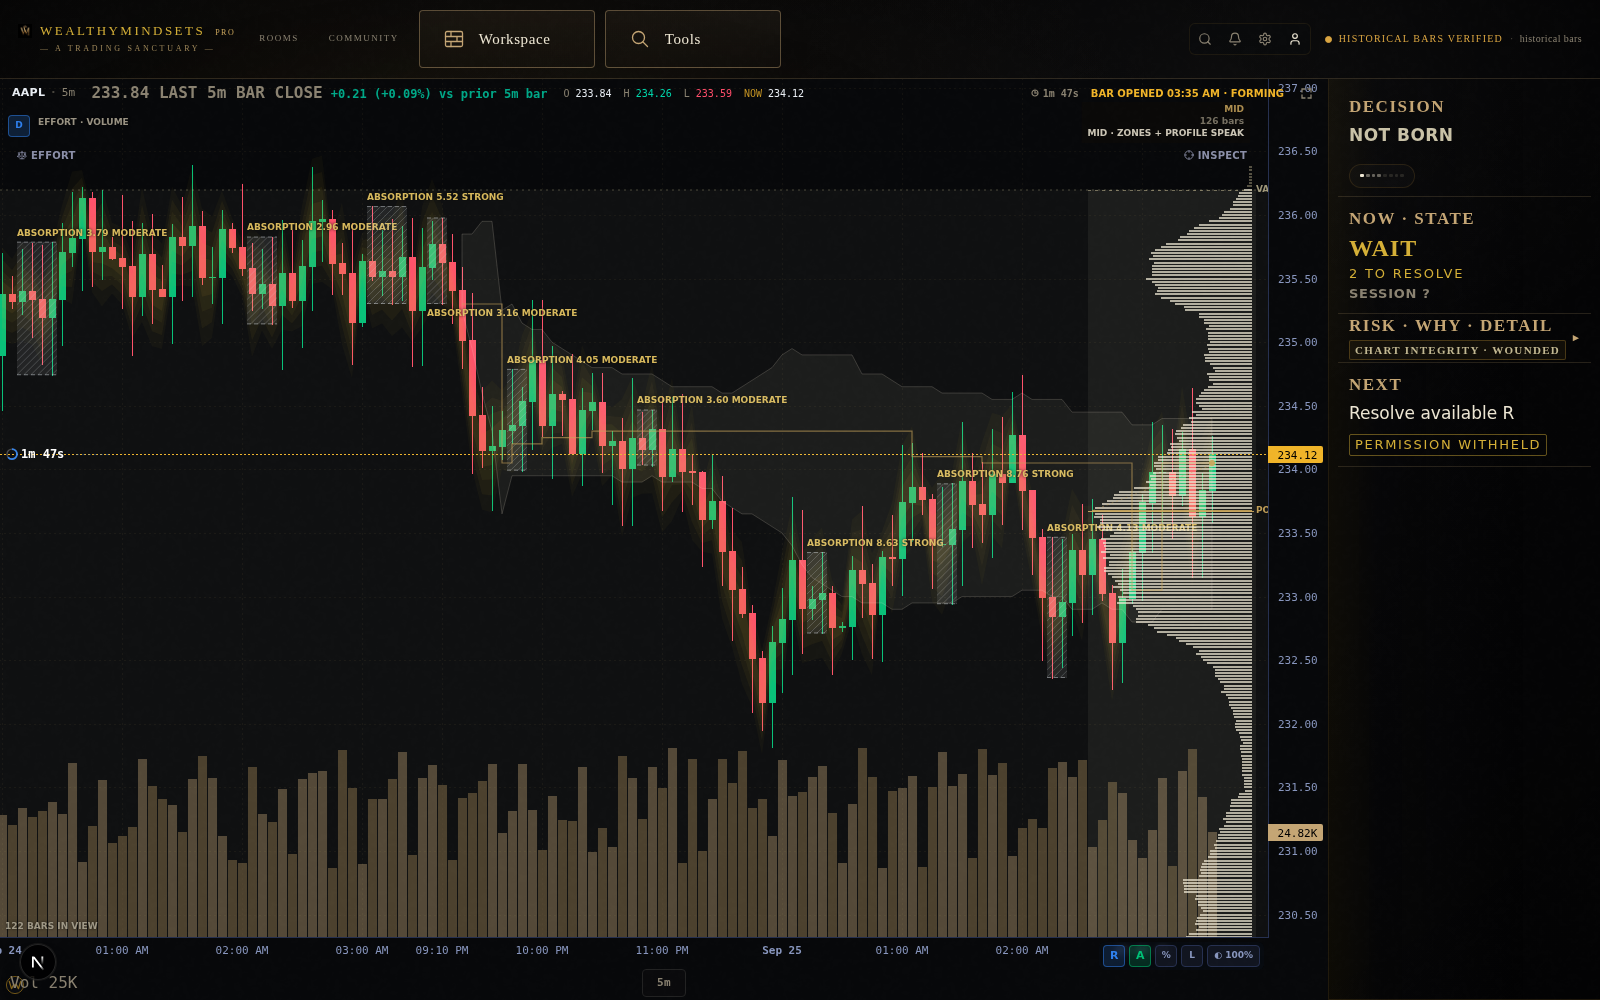
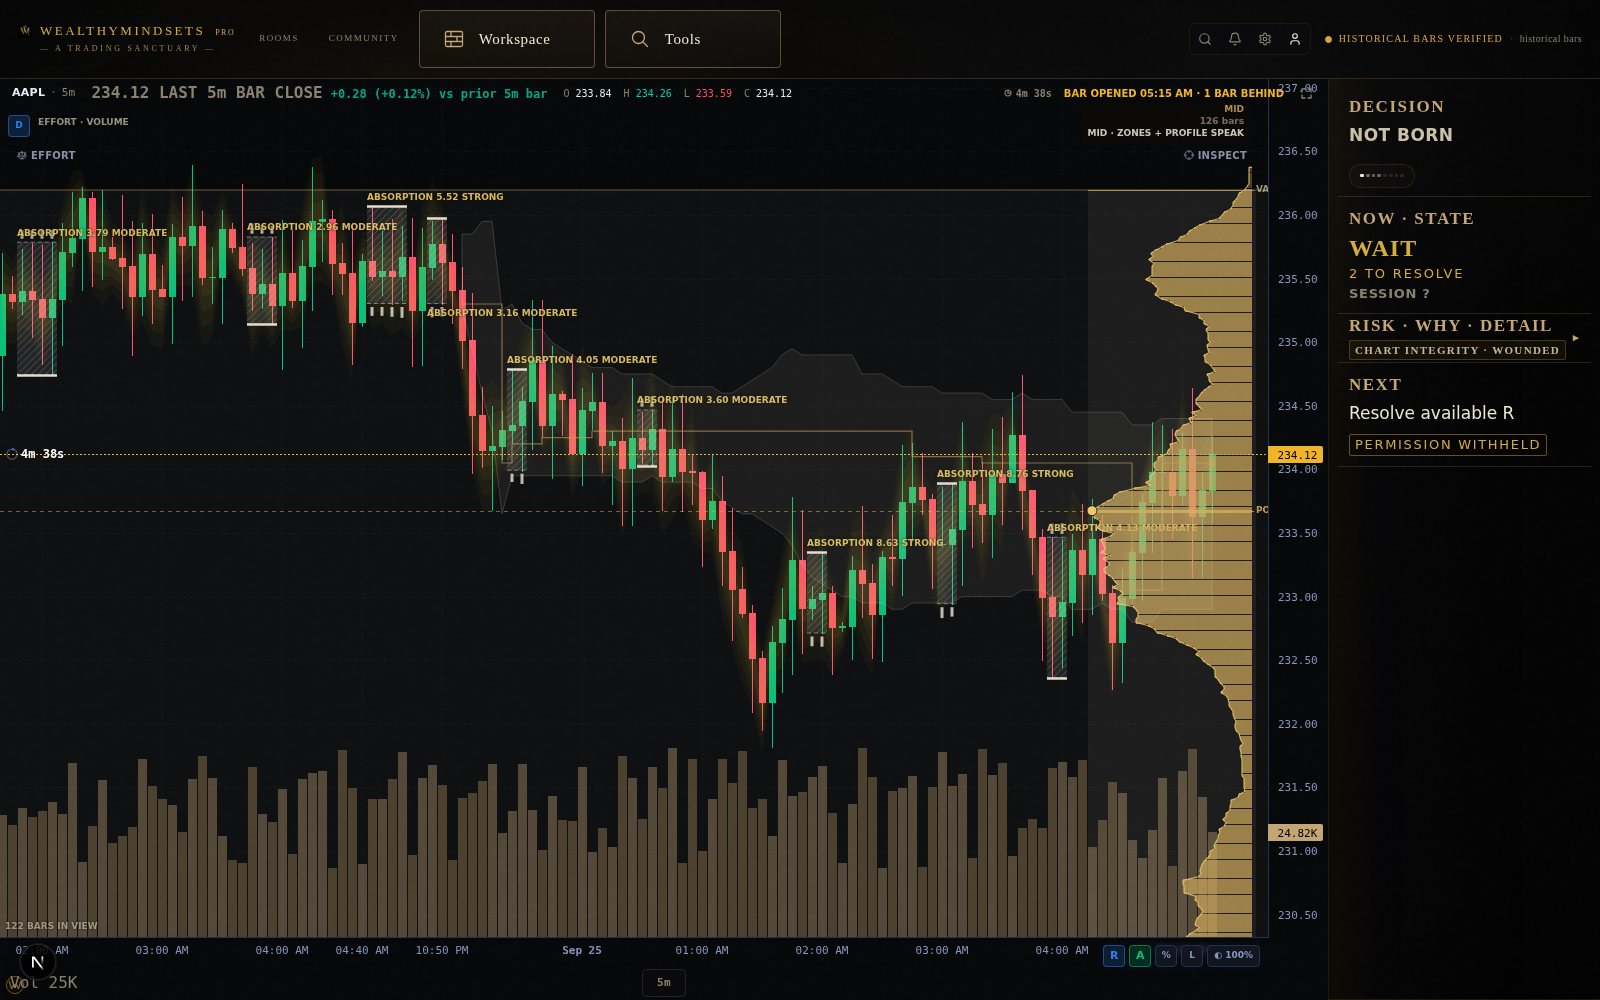
Garden 12 · Living Profile as the canon's gold silhouette (P-110 plate side by side)
Canon WM_A_P110_LIVING_PROFILE_STACK (Drive Visual Canon folder) beside the
serving /charts: the Living Profile is ONE gold silhouette with a gold POC
point and solid VAH/VAL — ours was a stack of parchment hairline bars with
dashed ivory VA. Rows are now laid gapless in the plate's gold (value area
full, outside value quieter) and fuse into one shape; the edge is traced; the
POC is a gold point on the profile with a dashed line across the market;
VAH/VAL are solid gold lines. Same rows, same prices, slice-click/Inspect
unchanged (sentinel green). Receipt: ds.livingProfileForm.
Proof: garden12/SIDE_P110_living_silhouette.png (canon | serving).

Claude-Session: https://claude.ai/code/session_01Gntm2WzCaW5uQMS2aMojoZ

diff --git a/src/components/chart/MainChart.tsx b/src/components/chart/MainChart.tsx
@@ -10018,9 +10018,9 @@ export function MainChart({ symbol, timeframe, setTimeframe, footprintType, foot
                 ctx.fillRect(rightEdge - histMax - 4, top, histMax + 8, band);
                 // Hairlines at VAH/VAL across the pane so the boundaries
                 // register even where the fill is faint.
-                ctx.strokeStyle = "rgba(194,184,146,0.35)";
+                ctx.strokeStyle = "rgba(201,165,92,0.5)";
                 ctx.lineWidth = 1;
-                ctx.setLineDash([2, 4]);
+                ctx.setLineDash([]);
                 ctx.beginPath();
                 ctx.moveTo(0, +yh + 0.5); ctx.lineTo(W, +yh + 0.5);
                 ctx.moveTo(0, +yl + 0.5); ctx.lineTo(W, +yl + 0.5);
@@ -10077,6 +10077,7 @@ export function MainChart({ symbol, timeframe, setTimeframe, footprintType, foot
               }
             }
 
+            const silhouette: { x: number; y: number }[] = [];
             for (const b of (livingDepth === "FAR" ? [] : lp.bars)) {
               const yr = srs.priceToCoordinate(b.price);
               if (yr == null) continue;
@@ -10086,12 +10087,18 @@ export function MainChart({ symbol, timeframe, setTimeframe, footprintType, foot
               // the trader can see it without hunting. Value area gets ivory.
               // Outside-value buckets get muted parchment — same reading,
               // less loud.
+              // CANON P-110 (WM_A_P110_LIVING_PROFILE_STACK): the Living
+              // Profile is ONE gold silhouette, not a stack of hairline bars.
+              // Rows are laid gapless in the plate's gold (value area full,
+              // outside value quieter) so they fuse into a continuous shape;
+              // the silhouette edge is traced after the loop.
               ctx.fillStyle = b.isPoc
-                ? "rgba(201,165,92,0.90)"
+                ? "rgba(214,176,92,0.92)"
                 : b.insideValueArea
-                  ? "rgba(237,230,211,0.72)"
-                  : "rgba(194,184,146,0.42)";
-              ctx.fillRect(rightEdge - width, y, width, Math.max(1, rowH - 1));
+                  ? "rgba(201,165,92,0.74)"
+                  : "rgba(201,165,92,0.34)";
+              ctx.fillRect(rightEdge - width, y, width, Math.max(1, rowH));
+              silhouette.push({ x: rightEdge - width, y: y + rowH / 2 });
               // The slice Inspect is reading, outlined so the ticket and the
               // glass visibly agree on WHICH bucket is selected.
               if (selectedSliceRef.current != null && Math.abs(b.price - selectedSliceRef.current) < 1e-9) {
@@ -10130,10 +10137,34 @@ export function MainChart({ symbol, timeframe, setTimeframe, footprintType, foot
               ctx.lineTo(rightEdge + 2, y);
               ctx.stroke();
             };
+            // The silhouette's edge, traced once through the row tips.
+            if (silhouette.length >= 3) {
+              const pts = [...silhouette].sort((a, z) => a.y - z.y);
+              ctx.beginPath(); ctx.moveTo(rightEdge, pts[0].y);
+              for (const q of pts) ctx.lineTo(q.x, q.y);
+              ctx.lineTo(rightEdge, pts[pts.length - 1].y);
+              ctx.strokeStyle = "rgba(233,196,106,0.85)"; ctx.lineWidth = 1.2; ctx.stroke();
+              ds.livingProfileForm = "SILHOUETTE";
+            }
             drawRef(lp.poc, "rgba(201,165,92,0.90)", false);
-            drawRef(lp.vah, "rgba(194,184,146,0.55)", true);
-            drawRef(lp.val, "rgba(194,184,146,0.55)", true);
+            // Canon: VAH/VAL are solid gold lines, not ivory dashes.
+            drawRef(lp.vah, "rgba(201,165,92,0.80)", false);
+            drawRef(lp.val, "rgba(201,165,92,0.80)", false);
             ctx.setLineDash([]);
+            // Canon: the POC is a gold point ON the profile, with a dashed
+            // line carried across the market.
+            if (lp.poc != null && livingDepth !== "FAR") {
+              const yp = srs.priceToCoordinate(lp.poc);
+              const pocBar = lp.bars.find(b => b.isPoc);
+              if (yp != null && pocBar) {
+                const px = rightEdge - Math.max(1, Math.round(pocBar.share * histMax));
+                ctx.setLineDash([4, 4]); ctx.strokeStyle = "rgba(201,165,92,0.55)"; ctx.lineWidth = 1;
+                ctx.beginPath(); ctx.moveTo(0, Math.round(+yp) + 0.5); ctx.lineTo(px - 8, Math.round(+yp) + 0.5); ctx.stroke(); ctx.setLineDash([]);
+                ctx.beginPath(); ctx.arc(px, +yp, 5, 0, Math.PI * 2);
+                ctx.fillStyle = "rgba(240,200,100,1)"; ctx.fill();
+                ctx.strokeStyle = "rgba(11,10,8,0.9)"; ctx.lineWidth = 1; ctx.stroke();
+              }
+            }
 
             /*
               HVN / LVN as annotation on the histogram. Not a replacement for
